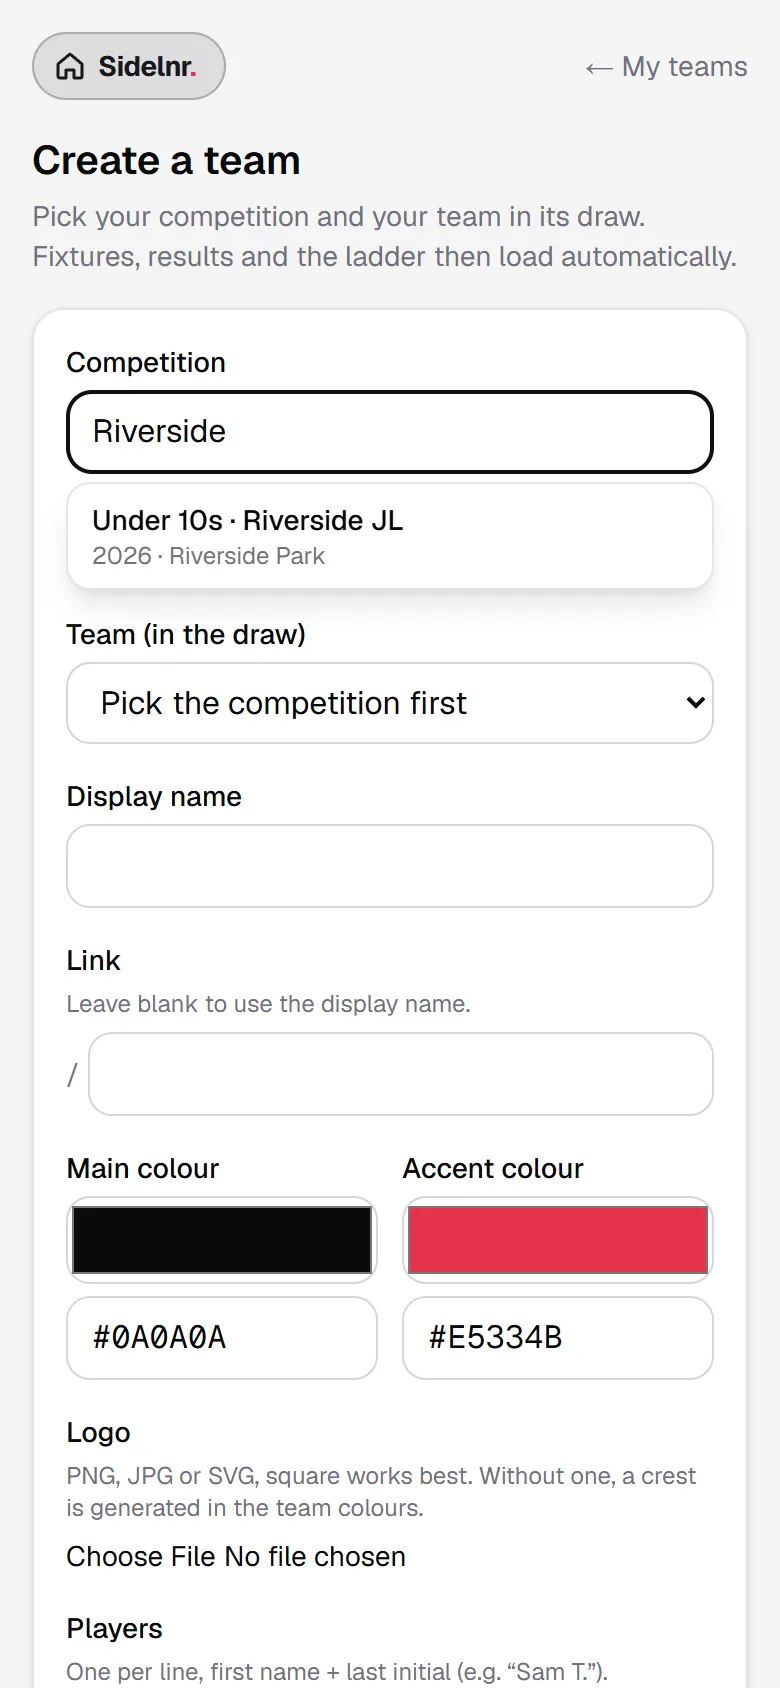
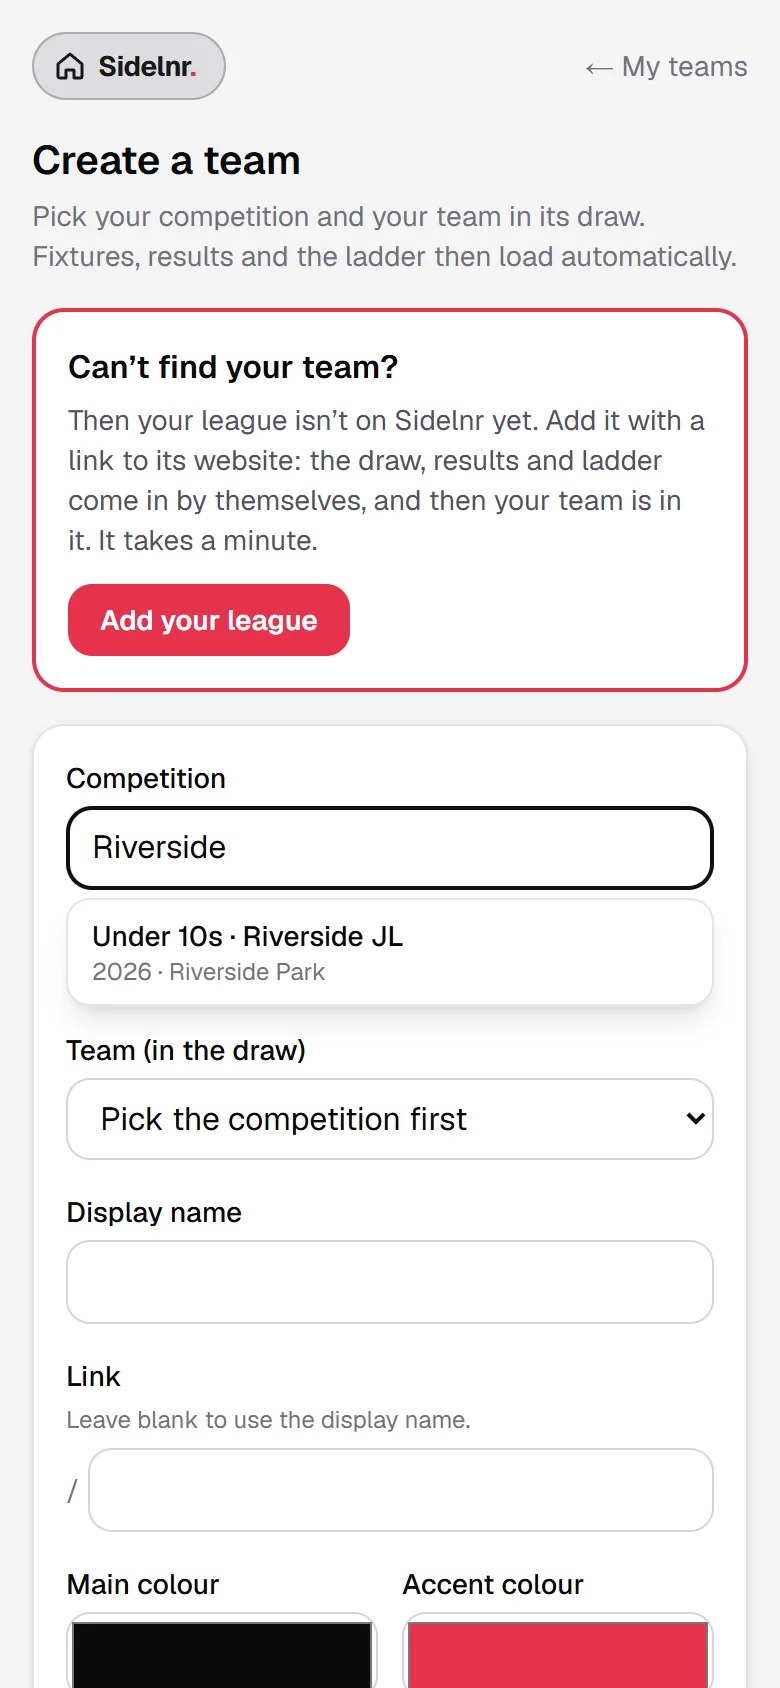
How it fits together: the guide opens with League, Team, Families and players, and a strong "Can't find your team? Add your league with a link" box; the same box tops Create a team, and an empty competition search links to adding the league

diff --git a/src/components/Guide.tsx b/src/components/Guide.tsx
@@ -3,6 +3,7 @@
 import Link from "next/link";
 import { usePathname, useRouter } from "next/navigation";
 import { useCallback, useEffect, useRef, useState } from "react";
+import { AddLeagueCallout } from "./AddLeagueCallout";
 
 // "How Sidelnr works": a short guide over the home page. It asks why you're
 // here, then shows the basics for that with real screens (made-up teams and
@@ -72,7 +73,7 @@ const PATHS: Path[] = [
       {
         image: "/guide/manage-3-create.webp",
         title: "Create your team",
-        text: "Search for your competition and pick your team in its draw. Fixtures, results and the ladder then load by themselves. Choose your colours, and add a logo if you have one.",
+        text: "Search for your competition and pick your team in its draw: fixtures, results and the ladder load by themselves. Can’t find your team? Add your league first with a link to its website (My League, Add a league), then come back.",
       },
       {
         image: "/guide/manage-4-squad.webp",
@@ -109,7 +110,7 @@ const PATHS: Path[] = [
 ];
 
 // Coming next: shown in the list, not ready yet.
-const LATER = ["Create a league"];
+const LATER = ["Add your league"];
 
 const SEEN_KEY = "su_guide_seen";
 export const GUIDE_EVENT = "sidelnr:guide";
@@ -191,34 +192,74 @@ export function Guide({ autoOpen = false, openNow = false }: { autoOpen?: boolea
         </div>
 
         {!path ? (
-          <div className="space-y-4 px-5 pb-[calc(env(safe-area-inset-bottom)+1.5rem)] pt-2">
-            <h2 className="text-2xl font-semibold">Why are you here?</h2>
-            <p className="text-sm text-zinc-600">Pick one and we’ll show you the basics in a few steps.</p>
-            <select
-              defaultValue=""
-              onChange={(e) => {
-                const p = PATHS.find((x) => x.id === e.target.value);
-                if (p) {
-                  setPath(p);
-                  setStep(0);
-                }
-              }}
-              className="w-full rounded-xl border border-zinc-300 bg-white px-3 py-3 text-base"
-            >
-              <option value="" disabled>
-                Choose…
-              </option>
-              {PATHS.map((p) => (
-                <option key={p.id} value={p.id}>
-                  {p.label}
+          <div className="max-h-[calc(100dvh-env(safe-area-inset-top)-4.5rem)] space-y-4 overflow-y-auto px-5 pb-[calc(env(safe-area-inset-bottom)+1.5rem)] pt-1">
+            {/* How it fits together: a league, its teams, their families. */}
+            <div>
+              <h2 className="text-lg font-semibold">How it fits together</h2>
+              <ol className="mt-2">
+                {[
+                  { n: 1, title: "League", text: "Fixtures, results and the ladder. The league adds it, or anyone adds it with a link to its website." },
+                  { n: 2, title: "Team", text: "A coach picks their team in the league’s draw." },
+                  { n: 3, title: "Families and players", text: "Join their team with its code." },
+                ].map((l, i) => (
+                  <li key={l.n}>
+                    {i > 0 && <div className="ml-[15px] h-3 w-0.5 bg-zinc-300" aria-hidden />}
+                    <div className="flex gap-3 rounded-2xl bg-zinc-100 p-3">
+                      <span className="grid size-8 shrink-0 place-items-center rounded-full bg-zinc-900 text-sm font-semibold text-white">{l.n}</span>
+                      <span className="text-sm">
+                        <span className="block font-semibold">{l.title}</span>
+                        <span className="text-zinc-600">{l.text}</span>
+                      </span>
+                    </div>
+                  </li>
+                ))}
+              </ol>
+            </div>
+            <AddLeagueCallout
+              learnHow={
+                PATHS.some((p) => p.id === "league") ? (
+                  <button
+                    type="button"
+                    onClick={() => {
+                      setPath(PATHS.find((p) => p.id === "league")!);
+                      setStep(0);
+                    }}
+                    className="text-sm font-medium underline"
+                  >
+                    Learn how
+                  </button>
+                ) : undefined
+              }
+            />
+            <div className="space-y-2 border-t border-zinc-100 pt-4">
+              <h2 className="text-2xl font-semibold">Why are you here?</h2>
+              <p className="text-sm text-zinc-600">Pick one and we’ll show you the basics in a few steps.</p>
+              <select
+                value=""
+                onChange={(e) => {
+                  const p = PATHS.find((x) => x.id === e.target.value);
+                  if (p) {
+                    setPath(p);
+                    setStep(0);
+                  }
+                }}
+                className="w-full rounded-xl border border-zinc-300 bg-white px-3 py-3 text-base"
+              >
+                <option value="" disabled>
+                  Choose…
                 </option>
-              ))}
-              {LATER.map((l) => (
-                <option key={l} value={l} disabled>
-                  {l} (coming soon)
-                </option>
-              ))}
-            </select>
+                {PATHS.map((p) => (
+                  <option key={p.id} value={p.id}>
+                    {p.label}
+                  </option>
+                ))}
+                {LATER.map((l) => (
+                  <option key={l} value={l} disabled>
+                    {l} (coming soon)
+                  </option>
+                ))}
+              </select>
+            </div>
             <button type="button" onClick={close} className="w-full py-2 text-sm text-zinc-500 underline">
               Skip, I’ll look around myself
             </button>

diff --git a/src/app/account/new/page.tsx b/src/app/account/new/page.tsx
@@ -1,5 +1,6 @@
 import type { Metadata } from "next";
 import Link from "next/link";
+import { AddLeagueCallout } from "@/components/AddLeagueCallout";
 import { redirect } from "next/navigation";
 import { TeamForm } from "@/components/TeamForm";
 import { createMyTeam } from "../team-actions";
@@ -29,6 +30,7 @@ export default async function NewTeamPage({ searchParams }: PageProps<"/account/
           Pick your competition and your team in its draw. Fixtures, results and the ladder then load automatically.
         </p>
       </div>
+      <AddLeagueCallout />
       <section className="rounded-2xl border border-zinc-200 bg-white p-4 shadow-sm">
         <TeamForm
           competitionLabel={competition ? competitionLabel(competition) : null}
@@ -40,7 +42,7 @@ export default async function NewTeamPage({ searchParams }: PageProps<"/account/
       <p className="text-center text-sm text-zinc-500">
         Can’t find your league or competition?{" "}
         <Link href="/account/leagues/new" className="font-medium text-zinc-900 underline">
-          Add it
+          Add it with a link
         </Link>{" "}
         and then create your team in it.
       </p>

diff --git a/src/components/AddLeagueCallout.tsx b/src/components/AddLeagueCallout.tsx
@@ -1,0 +1,21 @@
+import Link from "next/link";
+
+// "Can't find your team?": the league comes first. Anyone signed in can add it
+// with a link to the league's website; then the team is in its draw.
+export function AddLeagueCallout({ learnHow, className = "" }: { learnHow?: React.ReactNode; className?: string }) {
+  return (
+    <div className={`rounded-2xl border-2 border-accent bg-white p-4 text-zinc-950 ${className}`}>
+      <div className="font-semibold">Can’t find your team?</div>
+      <p className="mt-1 text-sm text-zinc-600">
+        Then your league isn’t on Sidelnr yet. Add it with a link to its website: the draw, results and ladder come in by
+        themselves, and then your team is in it. It takes a minute.
+      </p>
+      <div className="mt-3 flex items-center gap-4">
+        <Link href="/account/leagues/new" className="rounded-xl bg-accent px-4 py-2 text-sm font-semibold text-on-accent">
+          Add your league
+        </Link>
+        {learnHow}
+      </div>
+    </div>
+  );
+}

diff --git a/src/components/CompetitionPicker.tsx b/src/components/CompetitionPicker.tsx
@@ -1,5 +1,6 @@
 "use client";
 
+import Link from "next/link";
 import { useEffect, useState } from "react";
 import { searchCompetitions, type CompetitionHit } from "@/app/competition-actions";
 
@@ -75,7 +76,15 @@ export function CompetitionPicker({
               ))}
             </ul>
           )}
-          {query.trim().length >= 2 && !shown.length && <p className="mt-1 text-xs text-zinc-500">No matches yet. Try fewer words.</p>}
+          {query.trim().length >= 2 && !shown.length && (
+            <p className="mt-1 text-xs text-zinc-500">
+              No matches. Try fewer words, or{" "}
+              <Link href="/account/leagues/new" className="font-semibold text-zinc-900 underline">
+                add your league with a link
+              </Link>
+              .
+            </p>
+          )}
           {value && (
             <button type="button" onClick={() => setSearching(false)} className="mt-1 text-xs text-zinc-500 underline">
               Keep {label ?? "the current one"}
